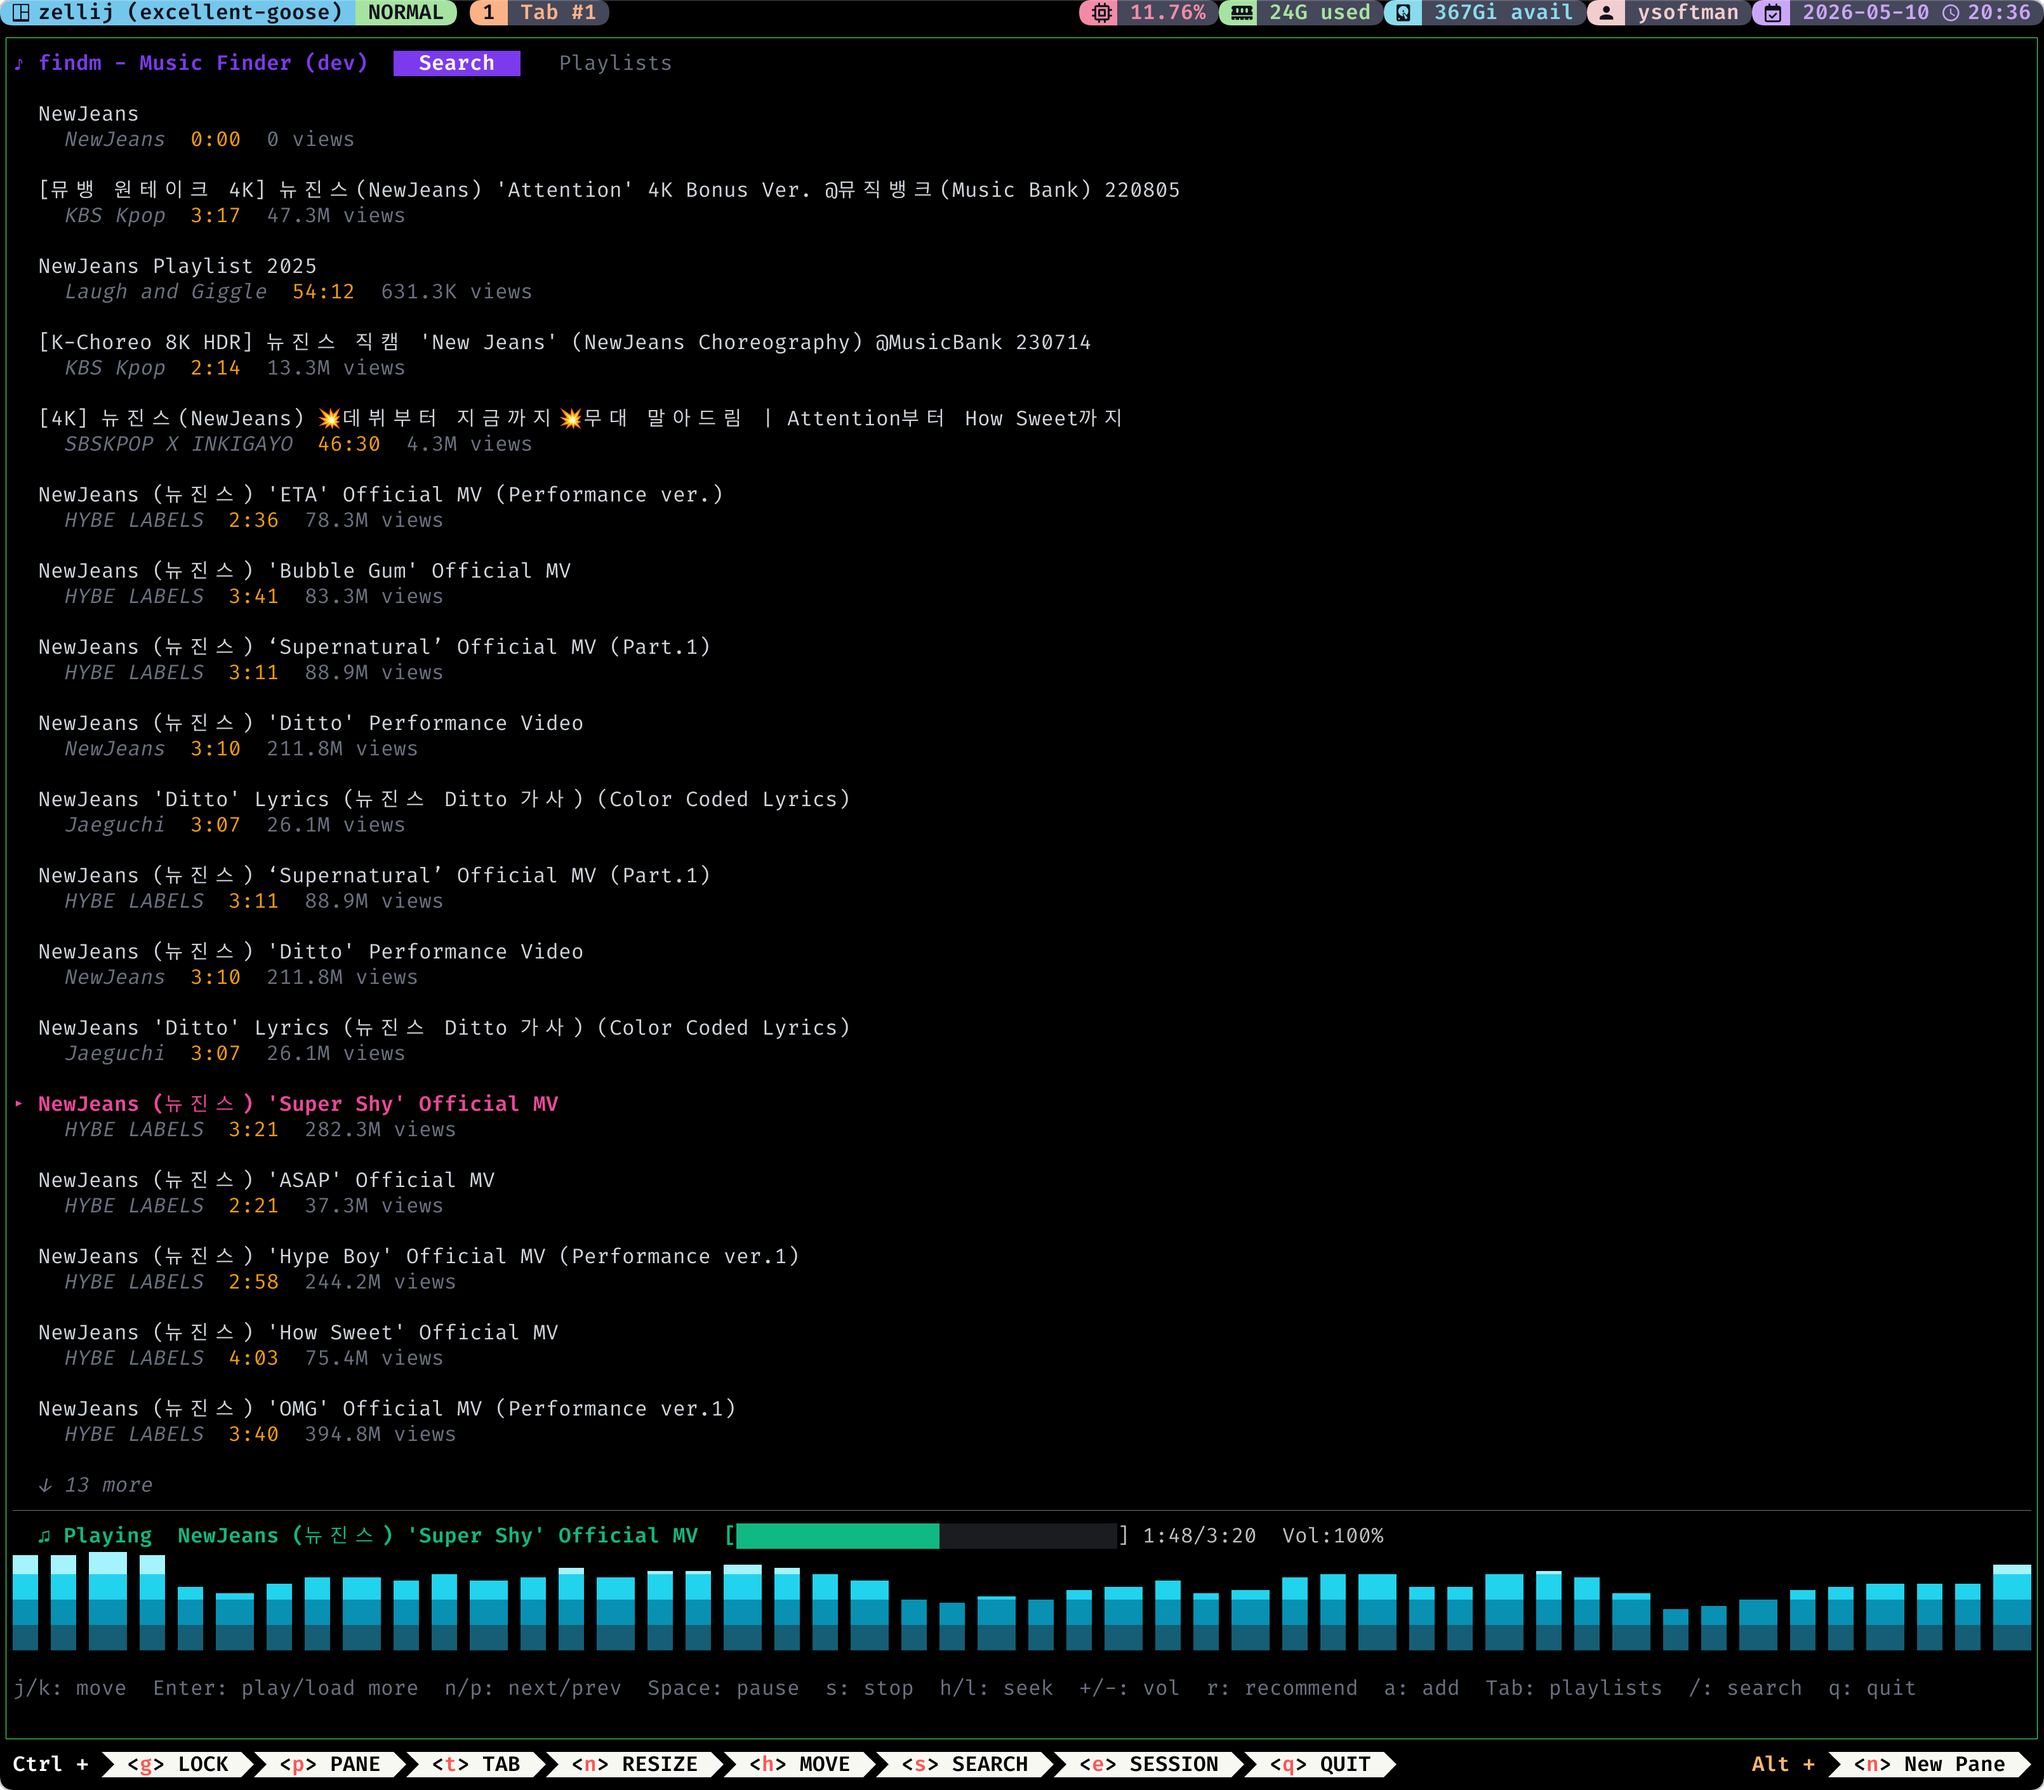
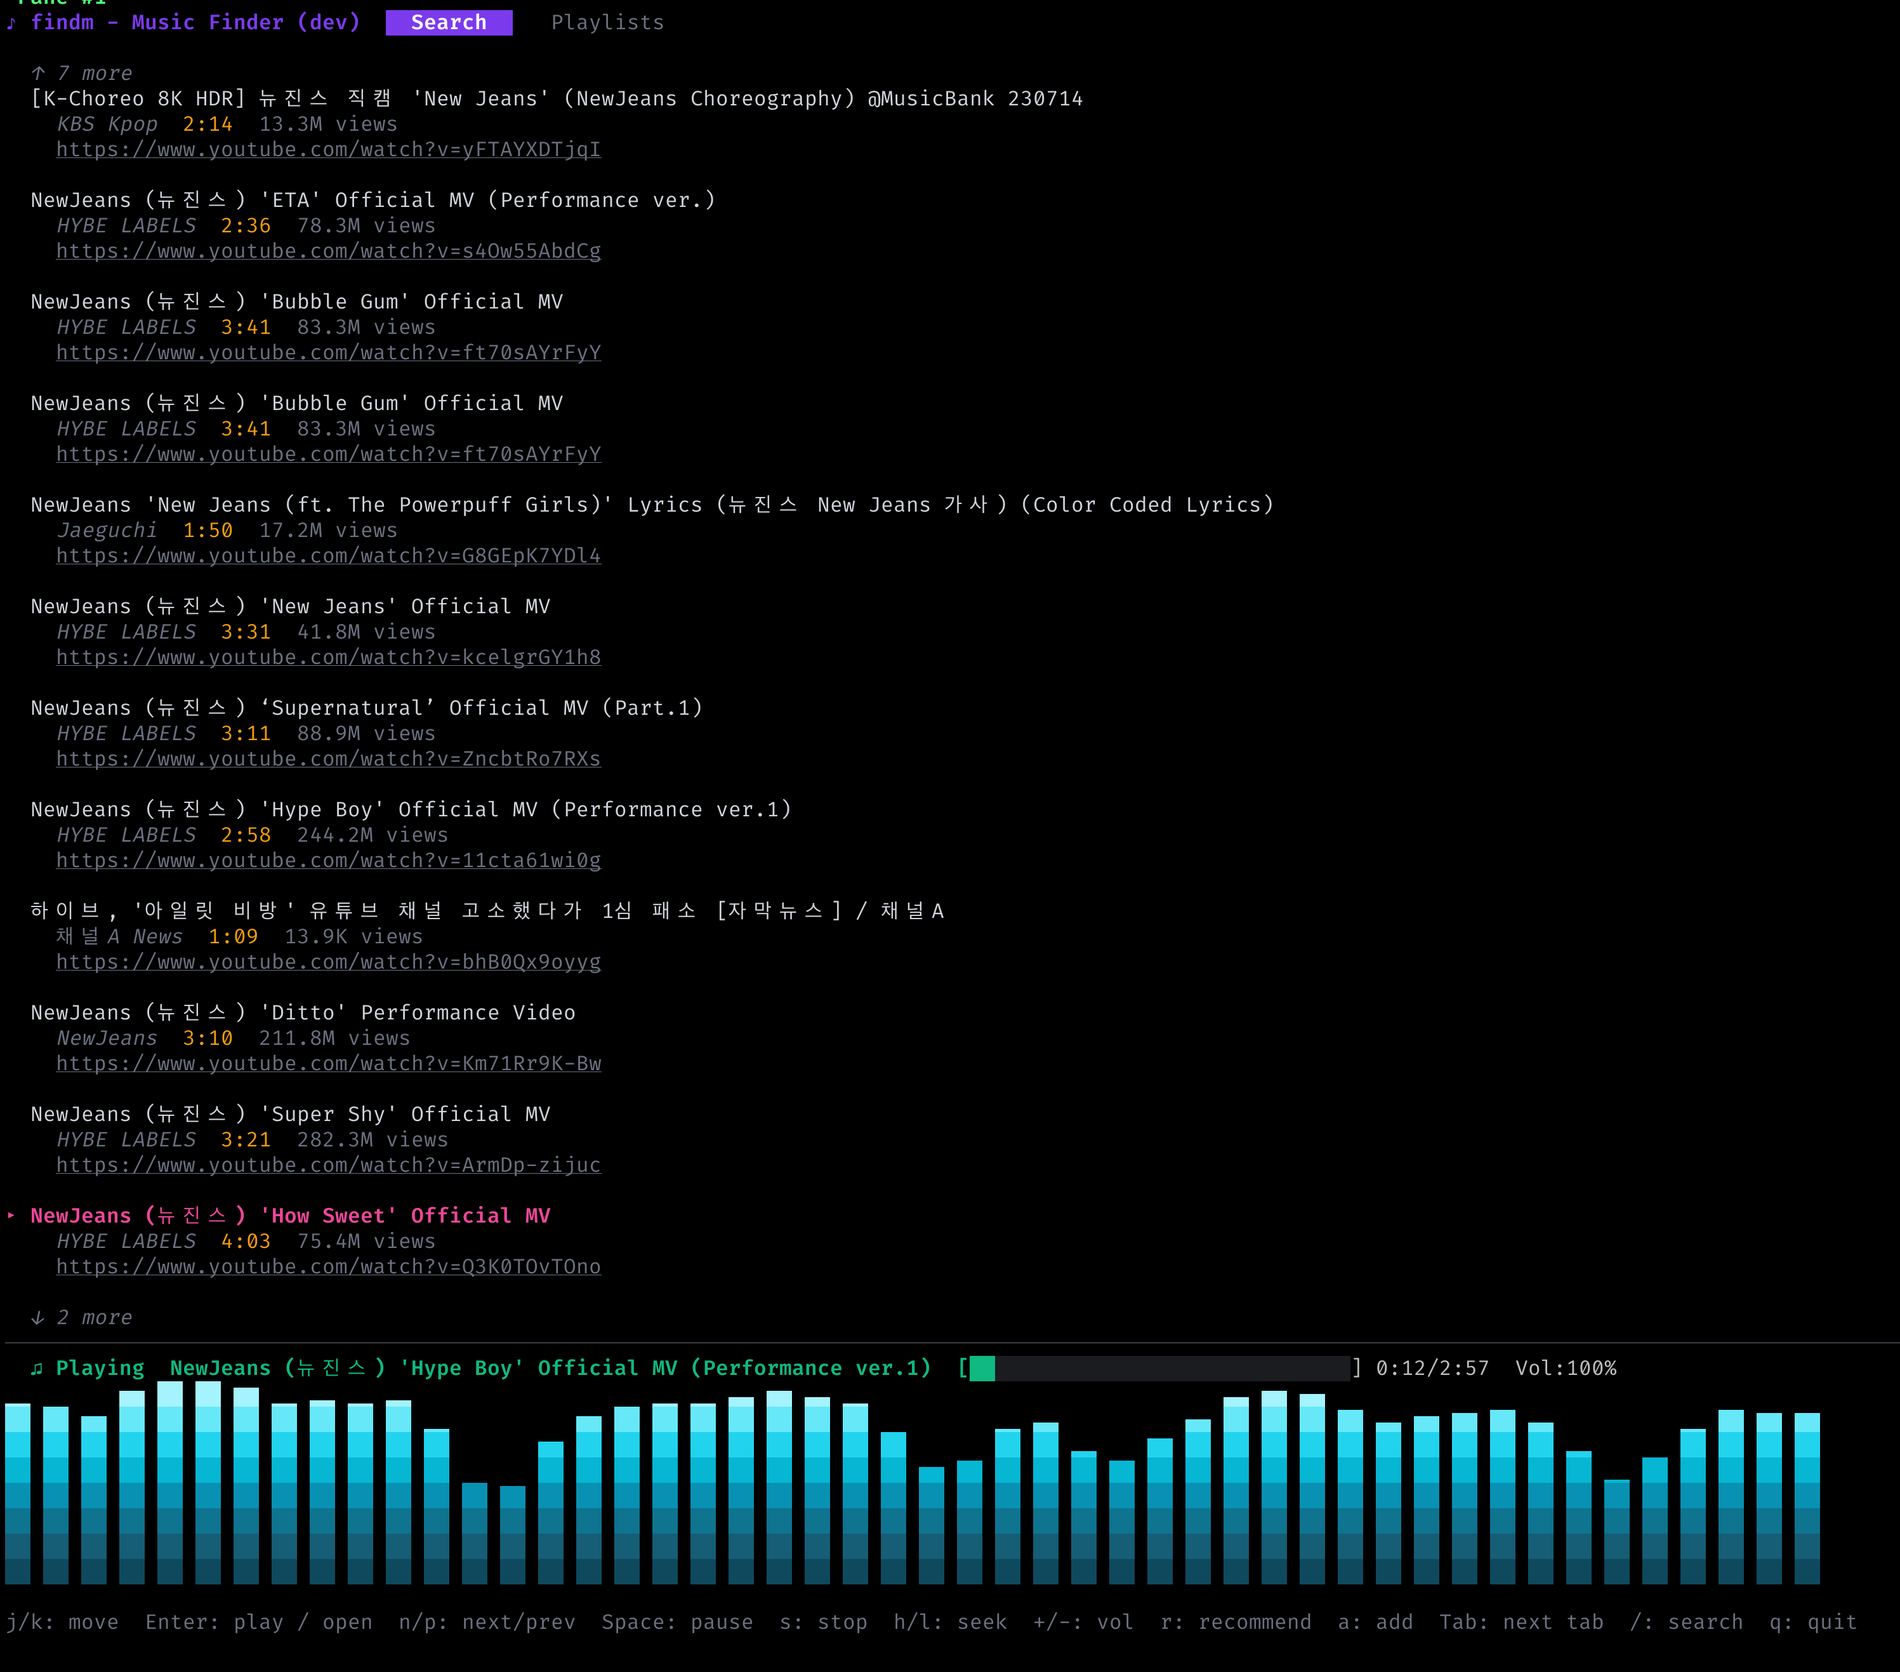
increase visualizer height and extend cyan gradient

diff --git a/internal/tui/styles.go b/internal/tui/styles.go
@@ -83,9 +83,13 @@ var (
 
 	// Visualizer row palette: cyan tones instead of rainbow bands.
 	vizRowStyles = []lipgloss.Style{
+		lipgloss.NewStyle().Foreground(lipgloss.Color("#0E4A5E")),
 		lipgloss.NewStyle().Foreground(lipgloss.Color("#155E75")),
+		lipgloss.NewStyle().Foreground(lipgloss.Color("#0E7490")),
 		lipgloss.NewStyle().Foreground(lipgloss.Color("#0891B2")),
+		lipgloss.NewStyle().Foreground(lipgloss.Color("#06B6D4")),
 		lipgloss.NewStyle().Foreground(lipgloss.Color("#22D3EE")),
+		lipgloss.NewStyle().Foreground(lipgloss.Color("#67E8F9")),
 		lipgloss.NewStyle().Foreground(lipgloss.Color("#A5F3FC")),
 	}
 )

diff --git a/internal/tui/player.go b/internal/tui/player.go
@@ -17,7 +17,7 @@ var preparingIcons = []string{
 }
 
 const (
-	visualizerHeight     = 4
+	visualizerHeight     = 8
 	visualizerBarWidth   = 2
 	visualizerBarSpacing = 1
 )
